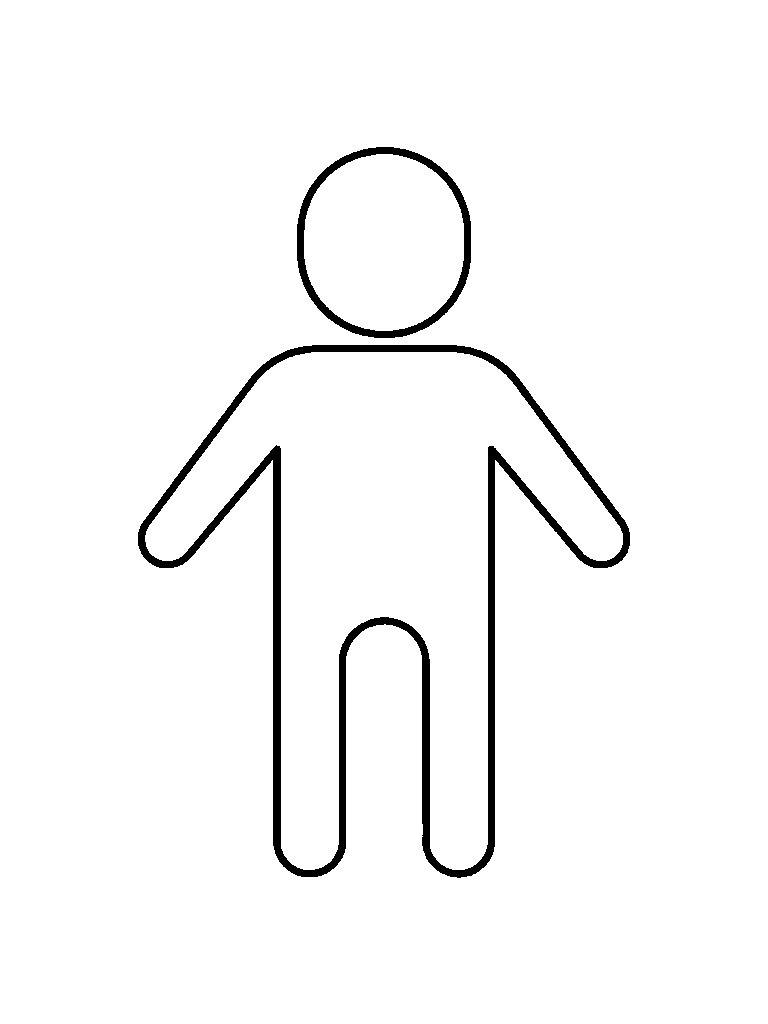
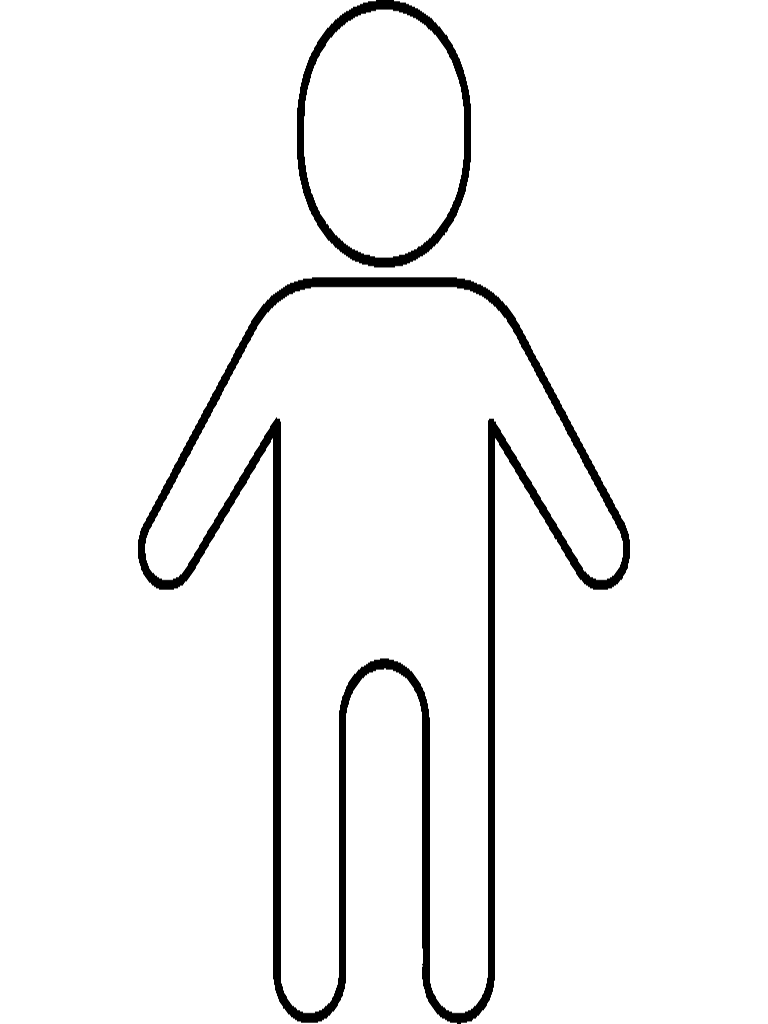
fix: 月曆細字加深、輪廓縮小留白、對比照片去黑底
- 月曆無資料日期顏色 #C8C8C8 → #888888，更清楚可讀
- 輪廓縮至框架 84%，上下各留 8% 讓頭頂/腳底不碰框
- 輪廓圖形重新填滿 100% 高度（移除 147px 上下留白）
- 對比照片改回 resizeMode contain + 淺灰背景，移動時不出現黑底

diff --git a/app/(tabs)/comparison.tsx b/app/(tabs)/comparison.tsx
@@ -1,7 +1,8 @@
 import {
-  FlatList,
+  Dimensions,
   Image,
   Modal,
+  ScrollView,
   StyleSheet,
   Text,
   TouchableOpacity,
@@ -69,7 +70,7 @@ function PhotoPanel({
               <Image
                 source={{ uri: photo.fullPath }}
                 style={StyleSheet.absoluteFill}
-                resizeMode="cover"
+                resizeMode="contain"
               />
             </Animated.View>
           </GestureDetector>
@@ -92,7 +93,7 @@ function PhotoPanel({
 
 const ps = StyleSheet.create({
   column: { flex: 1 },
-  frame:  { flex: 1, backgroundColor: '#F0F0F0', overflow: 'hidden' },
+  frame:  { flex: 1, backgroundColor: '#F5F5F5', overflow: 'hidden' },
   noPhoto: {
     flex: 1, alignItems: 'center', justifyContent: 'center', gap: 8,
   },
@@ -100,6 +101,147 @@ const ps = StyleSheet.create({
   meta:  { alignItems: 'center', paddingVertical: 8 },
   label: { fontSize: 13, fontWeight: '700', letterSpacing: 1 },
   date:  { fontSize: 11, color: '#888', marginTop: 2 },
+});
+
+// ── 月曆元件 ─────────────────────────────────────────────────────────────────
+
+const CAL_W = Dimensions.get('window').width;
+const CELL  = Math.floor((CAL_W - 32) / 7);
+const WEEKDAYS = ['日', '一', '二', '三', '四', '五', '六'];
+
+function getGrid(year: number, month: number): (number | null)[][] {
+  const first = new Date(year, month, 1).getDay();
+  const days  = new Date(year, month + 1, 0).getDate();
+  const cells: (number | null)[] = [
+    ...Array(first).fill(null),
+    ...Array.from({ length: days }, (_, i) => i + 1),
+  ];
+  while (cells.length % 7 !== 0) cells.push(null);
+  const rows: (number | null)[][] = [];
+  for (let i = 0; i < cells.length; i += 7) rows.push(cells.slice(i, i + 7));
+  return rows;
+}
+
+function CalendarPicker({
+  availableDates,
+  selected,
+  onToggle,
+  themeColor,
+  initDate,
+}: {
+  availableDates: string[];
+  selected: string[];
+  onToggle: (d: string) => void;
+  themeColor: string;
+  initDate?: string;
+}) {
+  const ref = initDate ? new Date(initDate) : new Date();
+  const [year,  setYear]  = useState(ref.getFullYear());
+  const [month, setMonth] = useState(ref.getMonth());
+
+  const availableSet = useMemo(() => new Set(availableDates), [availableDates]);
+
+  function pad(n: number) { return String(n).padStart(2, '0'); }
+  function dateKey(y: number, m: number, d: number) { return `${y}-${pad(m + 1)}-${pad(d)}`; }
+
+  function prevMonth() { if (month === 0) { setYear(y => y - 1); setMonth(11); } else setMonth(m => m - 1); }
+  function nextMonth() { if (month === 11) { setYear(y => y + 1); setMonth(0);  } else setMonth(m => m + 1); }
+
+  const grid = useMemo(() => getGrid(year, month), [year, month]);
+
+  const today = new Date();
+  const todayKey = dateKey(today.getFullYear(), today.getMonth(), today.getDate());
+
+  return (
+    <View style={cl.wrapper}>
+      {/* 年份導航 */}
+      <View style={cl.navRow}>
+        <TouchableOpacity style={cl.navBtn} onPress={() => setYear(y => y - 1)}>
+          <Ionicons name={'chevron-back' as IoniconsName} size={18} color="#555" />
+        </TouchableOpacity>
+        <Text style={cl.navYear}>{year}年</Text>
+        <TouchableOpacity style={cl.navBtn} onPress={() => setYear(y => y + 1)}>
+          <Ionicons name={'chevron-forward' as IoniconsName} size={18} color="#555" />
+        </TouchableOpacity>
+      </View>
+
+      {/* 月份導航 */}
+      <View style={cl.navRow}>
+        <TouchableOpacity style={cl.navBtn} onPress={prevMonth}>
+          <Ionicons name={'chevron-back' as IoniconsName} size={16} color="#777" />
+        </TouchableOpacity>
+        <Text style={cl.navMonth}>{month + 1}月</Text>
+        <TouchableOpacity style={cl.navBtn} onPress={nextMonth}>
+          <Ionicons name={'chevron-forward' as IoniconsName} size={16} color="#777" />
+        </TouchableOpacity>
+      </View>
+
+      {/* 星期標題 */}
+      <View style={cl.weekRow}>
+        {WEEKDAYS.map(w => (
+          <Text key={w} style={cl.weekday}>{w}</Text>
+        ))}
+      </View>
+
+      {/* 日期格子 */}
+      {grid.map((row, ri) => (
+        <View key={ri} style={cl.weekRow}>
+          {row.map((day, ci) => {
+            if (!day) return <View key={ci} style={cl.cell} />;
+            const key      = dateKey(year, month, day);
+            const hasData  = availableSet.has(key);
+            const isSel    = selected.includes(key);
+            const isFull   = !isSel && selected.length >= 2;
+            const isToday  = key === todayKey;
+
+            return (
+              <TouchableOpacity
+                key={ci}
+                style={[
+                  cl.cell,
+                  isSel && { backgroundColor: themeColor, borderRadius: CELL / 2 },
+                  !isSel && isToday && cl.todayCell,
+                ]}
+                onPress={() => { if (hasData && !isFull) onToggle(key); }}
+                activeOpacity={hasData && !isFull ? 0.7 : 1}
+              >
+                <Text style={[
+                  cl.dayBase,
+                  hasData ? cl.dayBold : cl.dayThin,
+                  isSel   && cl.daySelected,
+                  !hasData && cl.dayNoData,
+                ]}>
+                  {day}
+                </Text>
+                {/* 有資料小點 */}
+                {hasData && !isSel && (
+                  <View style={[cl.dot, { backgroundColor: themeColor }]} />
+                )}
+              </TouchableOpacity>
+            );
+          })}
+        </View>
+      ))}
+    </View>
+  );
+}
+
+const cl = StyleSheet.create({
+  wrapper: { paddingHorizontal: 16, paddingBottom: 8 },
+  navRow:  { flexDirection: 'row', alignItems: 'center', justifyContent: 'center', marginBottom: 4 },
+  navBtn:  { padding: 8 },
+  navYear: { fontSize: 18, fontWeight: '700', color: '#222', minWidth: 90, textAlign: 'center' },
+  navMonth:{ fontSize: 16, fontWeight: '600', color: '#444', minWidth: 50, textAlign: 'center' },
+  weekRow: { flexDirection: 'row', justifyContent: 'space-around', marginVertical: 1 },
+  weekday: { width: CELL, textAlign: 'center', fontSize: 11, color: '#AAA', fontWeight: '500' },
+  cell:    { width: CELL, height: CELL, alignItems: 'center', justifyContent: 'center' },
+  todayCell: { borderWidth: 1, borderColor: '#CCC', borderRadius: CELL / 2 },
+  dayBase:   { fontSize: 16, lineHeight: 20 },
+  dayBold:   { fontWeight: '800', color: '#111', fontSize: 17 },  // 有資料：粗體大字
+  dayThin:   { fontWeight: '300', color: '#888888', fontSize: 14 }, // 無資料：細體中灰
+  daySelected: { color: '#FFF', fontWeight: '800' },
+  dayNoData:   { },
+  dot: { width: 4, height: 4, borderRadius: 2, marginTop: 1 },
 });
 
 // ── 日期選取模態框 ───────────────────────────────────────────────────────────
@@ -121,7 +263,8 @@ function DatePickerModal({
   onClose: () => void;
   themeColor: string;
 }) {
-  const fmt = (d: string) => d.replace(/-/g, '/');
+  // 初始月份設為最近有資料的那個月
+  const initDate = availableDates[0];
 
   return (
     <Modal visible={visible} transparent animationType="slide" onRequestClose={onClose}>
@@ -140,33 +283,15 @@ function DatePickerModal({
             <Text style={dm.emptyText}>目前沒有可對比的照片</Text>
           </View>
         ) : (
-          <FlatList
-            data={availableDates}
-            keyExtractor={(d) => d}
-            style={dm.list}
-            renderItem={({ item }) => {
-              const isSel = selected.includes(item);
-              const isDisabled = !isSel && selected.length >= 2;
-              return (
-                <TouchableOpacity
-                  style={[dm.row, isSel && { backgroundColor: themeColor + '18' }]}
-                  onPress={() => { if (!isDisabled) onToggle(item); }}
-                  activeOpacity={isDisabled ? 1 : 0.7}
-                >
-                  <View style={[
-                    dm.circle,
-                    isSel && { backgroundColor: themeColor, borderColor: themeColor },
-                    isDisabled && dm.circleDisabled,
-                  ]}>
-                    {isSel && <Ionicons name={'checkmark' as IoniconsName} size={13} color="#FFF" />}
-                  </View>
-                  <Text style={[dm.dateText, isDisabled && dm.textDisabled]}>
-                    {fmt(item)}
-                  </Text>
-                </TouchableOpacity>
-              );
-            }}
-          />
+          <ScrollView showsVerticalScrollIndicator={false}>
+            <CalendarPicker
+              availableDates={availableDates}
+              selected={selected}
+              onToggle={onToggle}
+              themeColor={themeColor}
+              initDate={initDate}
+            />
+          </ScrollView>
         )}
 
         <View style={dm.actions}>
@@ -192,7 +317,7 @@ const dm = StyleSheet.create({
   backdrop: { flex: 1, backgroundColor: 'rgba(0,0,0,0.3)' },
   sheet: {
     backgroundColor: '#FFF', borderTopLeftRadius: 20, borderTopRightRadius: 20,
-    maxHeight: '70%', paddingBottom: 32,
+    maxHeight: '85%', paddingBottom: 24,
   },
   handle: {
     width: 40, height: 4, backgroundColor: '#E0E0E0', borderRadius: 2,
@@ -200,23 +325,9 @@ const dm = StyleSheet.create({
   },
   title:    { fontSize: 16, fontWeight: '700', color: '#333', textAlign: 'center', marginTop: 12 },
   subtitle: { fontSize: 13, color: '#888', textAlign: 'center', marginTop: 4, marginBottom: 8 },
-  list:     { maxHeight: 300 },
   emptyBox: { padding: 32, alignItems: 'center' },
   emptyText:{ color: '#AAA', fontSize: 14 },
-  row: {
-    flexDirection: 'row', alignItems: 'center', gap: 14,
-    paddingHorizontal: 20, paddingVertical: 14,
-    borderBottomWidth: StyleSheet.hairlineWidth, borderBottomColor: '#F0F0F0',
-  },
-  circle: {
-    width: 24, height: 24, borderRadius: 12,
-    borderWidth: 2, borderColor: '#CCCCCC',
-    alignItems: 'center', justifyContent: 'center',
-  },
-  circleDisabled: { borderColor: '#E8E8E8' },
-  dateText:     { fontSize: 15, color: '#333', fontWeight: '500' },
-  textDisabled: { color: '#CCCCCC' },
-  actions: { flexDirection: 'row', gap: 12, paddingHorizontal: 20, paddingTop: 16 },
+  actions: { flexDirection: 'row', gap: 12, paddingHorizontal: 20, paddingTop: 12 },
   cancelBtn: {
     flex: 1, height: 48, borderRadius: 12,
     borderWidth: 1, borderColor: '#E0E0E0',

diff --git a/src/components/AlignScreen.tsx b/src/components/AlignScreen.tsx
@@ -163,8 +163,8 @@ export function AlignScreen({ photoUri, photoType, onConfirm, onCancel }: Props)
             />
           </Animated.View>
 
-          {/* 人形輪廓（固定，完全透明背景） */}
-          <View style={StyleSheet.absoluteFill} pointerEvents="none">
+          {/* 人形輪廓：置中並縮小，頭頂/腳底留白不碰框 */}
+          <View style={styles.silhouetteWrapper} pointerEvents="none">
             <Image
               source={require('../../assets/images/silhouette.png')}
               style={styles.silhouette}
@@ -225,10 +225,16 @@ const styles = StyleSheet.create({
     width: FRAME_W,
     height: FRAME_H,
   },
+  // 輪廓圖：縮到 84%，上下各留 8% 讓頭頂/腳底不碰框
+  silhouetteWrapper: {
+    ...StyleSheet.absoluteFillObject,
+    alignItems: 'center',
+    justifyContent: 'center',
+  },
   silhouette: {
-    width: FRAME_W,
-    height: FRAME_H,
-    opacity: 0.7,
+    width:   Math.round(FRAME_W * 0.84),
+    height:  Math.round(FRAME_H * 0.84),
+    opacity: 0.65,
   },
   frameBorder: {
     ...StyleSheet.absoluteFillObject,